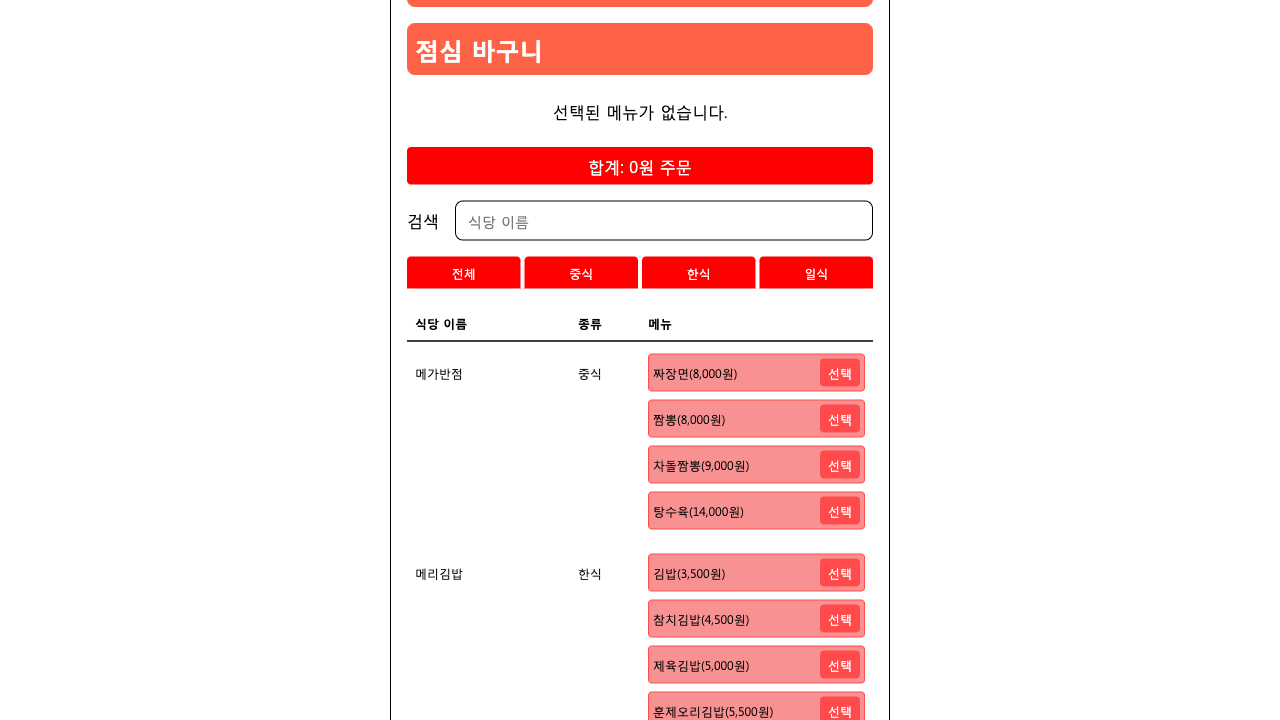
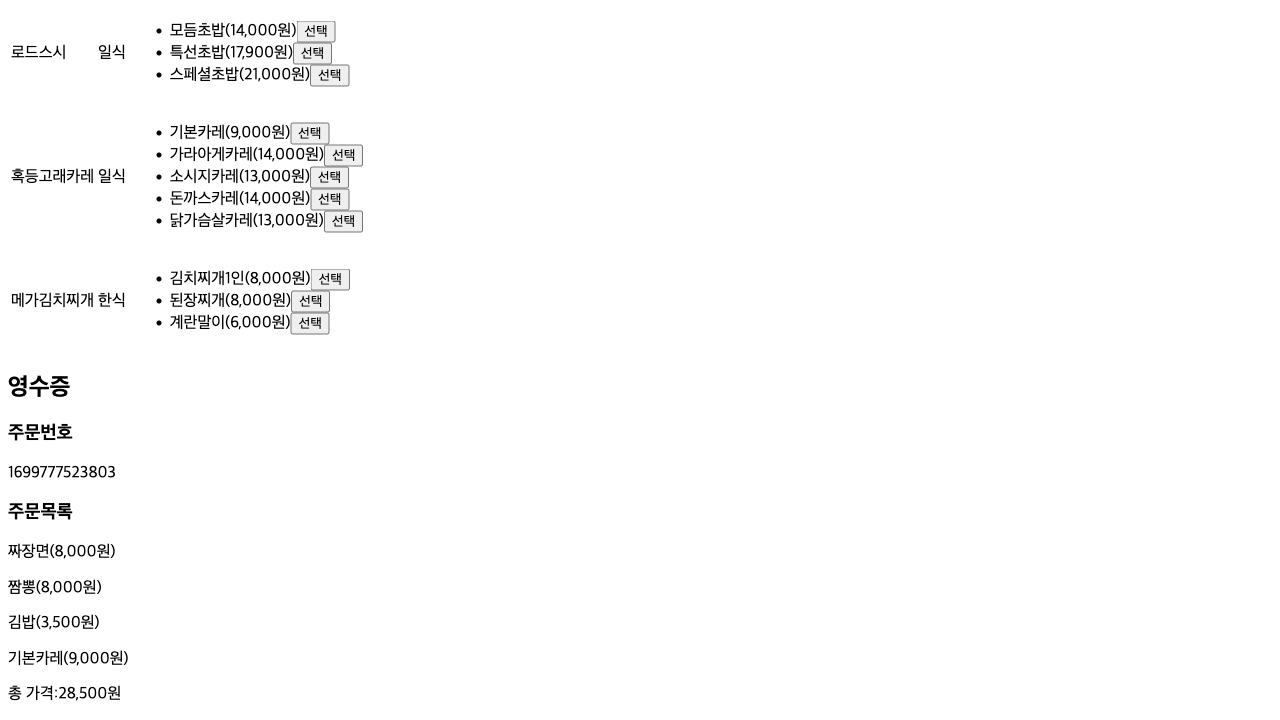
feat: build fail 수정

diff --git a/react-app/src/hooks/useSelectedMenus.ts b/react-app/src/hooks/useSelectedMenus.ts
@@ -1,8 +1,12 @@
+import { useMemo } from 'react';
+
 import { useLocalStorage } from 'usehooks-ts';
 
-import { useMemo } from 'react';
 import { MenuItem } from '../types/restaurantItemType';
-import { ReceiptType } from '../types/receiptType';
+
+import { ReceiptResponse, ReceiptType } from '../types/receiptType';
+
+import { postOrderAPI } from '../constants/apis';
 
 export default function useSelectedMenus() {
   const [addedMenus, setAddMenu] = useLocalStorage<MenuItem[]>('cart', []);
@@ -29,7 +33,7 @@ export default function useSelectedMenus() {
         totalPrice,
       };
 
-      const response = await fetch('http://localhost:3000/orders', {
+      const response = await fetch(postOrderAPI, {
         headers: {
           'Content-Type': 'application/json',
         },
@@ -37,9 +41,11 @@ export default function useSelectedMenus() {
         method: 'post',
         body: JSON.stringify(item),
       });
-      const data = (await response.json()) as ReceiptType;
+      const data = (await response.json()) as ReceiptResponse;
 
-      setReceipt(data);
+      const { receipt: receiptData } = data;
+
+      setReceipt(receiptData);
 
       setTimeout(() => setReceipt({}), 5000);
 

diff --git a/react-app/src/components/FilterableMenuConainer.tsx b/react-app/src/components/FilterableMenuConainer.tsx
@@ -1,21 +1,32 @@
 import { useMemo } from 'react';
+
 import { useDebounce } from 'usehooks-ts';
+
+import Stack from './atoms/Stack';
+
 import FilterableMenuTitle from './FilterableMenuTitle';
+
 import FilterableMenuSearch from './FilterableMenuSearch';
+
 import FilterableMenuFilterCategory from './FilterableMenuFilterCategory';
+
 import FilterableMenuTable from './FilterableMenuTable';
 
+import OutputReceipt from './OutputReceipt';
+
+import LunchBasket from './LunchBasket';
+
 import useInput from '../hooks/useInput';
+
 import useFilter from '../hooks/useFilter';
+
+import useSelectedMenus from '../hooks/useSelectedMenus';
 
 import { RestaurantItem } from '../types/restaurantItemType';
 
 import select from '../utils/select';
+
 import filterByName from '../utils/filterBySearchText';
-import OutputReceipt from './OutputReceipt';
-import LunchBasket from './LunchBasket';
-import useSelectedMenus from '../hooks/useSelectedMenus';
-import Stack from './atoms/Stack';
 
 type FilterableMenuContainerProps = {
   restaurants: RestaurantItem[];

diff --git a/react-app/src/components/OutputReceipt.tsx b/react-app/src/components/OutputReceipt.tsx
@@ -8,7 +8,7 @@ type OutputReceiptProps = {
 
 export default function OutputReceipt({ receipt }: OutputReceiptProps) {
   const isExistedReceipt = useMemo(
-    () => !!receipt?.id && receipt?.menu && !!receipt?.totalPrice,
+    () => receipt?.id && receipt?.menu && !!receipt?.totalPrice,
     [receipt],
   );
 
@@ -34,11 +34,7 @@ export default function OutputReceipt({ receipt }: OutputReceiptProps) {
               </p>
             ))}
           </Stack>
-          <p>
-            총 가격:
-            {totalPrice?.toLocaleString()}
-            원
-          </p>
+          <p>{`총 가격: ${totalPrice?.toLocaleString()}원`}</p>
         </Stack>
       ) : (
         <h2>[영수증 나오는 곳]</h2>

diff --git a/react-app/src/hooks/useInit.ts b/react-app/src/hooks/useInit.ts
@@ -2,14 +2,14 @@ import { useFetch } from 'usehooks-ts';
 
 import { RestaurantItem } from '../types/restaurantItemType';
 
-const url = 'http://localhost:3000/restaurants';
+import { getRataurantsAPI } from '../constants/apis';
 
 interface Restaurants {
   restaurants: RestaurantItem[];
 }
 
 export default function useInit() {
-  const { data } = useFetch<Restaurants>(url);
+  const { data } = useFetch<Restaurants>(getRataurantsAPI);
 
   return {
     restaurntsData: data?.restaurants ? data.restaurants : [],

diff --git a/react-app/src/constants/apis.ts b/react-app/src/constants/apis.ts
@@ -1,0 +1,5 @@
+// post
+export const postOrderAPI = 'http://localhost:3000/orders';
+
+// get
+export const getRataurantsAPI = 'http://localhost:3000/restaurants';

diff --git a/react-app/src/types/receiptType.ts b/react-app/src/types/receiptType.ts
@@ -5,3 +5,7 @@ export type ReceiptType = {
   menu?: MenuItem[];
   totalPrice?: number;
 };
+
+export type ReceiptResponse = {
+  receipt: ReceiptType;
+};
